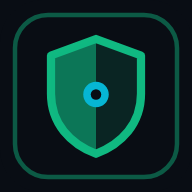
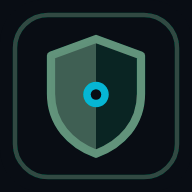
1.0.9 giro 1: servizio Linux parte anche se il registro non è scrivibile, icone in salvia, contrasto hover tema chiaro, Abilita nascosto se le notifiche non esistono, registro allineato a --dati; revisione config: CI con permessi minimi e azioni fissate, impronta del modello, fastapi 0.129.2/starlet

Changed region(s): [[0.2188, 0.1875, 0.7812, 0.8438], [0.0625, 0.0625, 0.9375, 0.9375]]

diff --git a/frontend/src/components/AlertRules.jsx b/frontend/src/components/AlertRules.jsx
@@ -82,7 +82,7 @@ export default function AlertRules({ settings, onSave }) {
           <Switch data-testid="desktop-notify-toggle" className="ml-auto" checked={draft.desktop_notifications} onCheckedChange={(v) => setDraft({ ...draft, desktop_notifications: v })} /></label>
         <div className="flex items-center gap-2 text-xs text-gray-400">
           Permesso: <span data-testid="notify-permission-status" className="font-mono text-gray-200">{!secure ? "non disponibile su http" : perm === "granted" ? "concesso" : perm === "denied" ? "negato" : perm === "unsupported" ? "non supportato" : "da richiedere"}</span>
-          {perm !== "granted" && secure && <Button data-testid="notify-permission-button" size="sm" variant="outline" className="ml-auto h-7 border-white/10 bg-transparent text-xs" onClick={async () => setPerm(await askNotifyPermission())}>Abilita</Button>}
+          {perm !== "granted" && perm !== "unsupported" && secure && <Button data-testid="notify-permission-button" size="sm" variant="outline" className="ml-auto h-7 border-white/10 bg-transparent text-xs" onClick={async () => setPerm(await askNotifyPermission())}>Abilita</Button>}
         </div>
       </div>
       {!secure && (

diff --git a/frontend/public/sw.js b/frontend/public/sw.js
@@ -1,6 +1,6 @@
 /* Service worker di SentinelAI: rende l'app installabile e la apre anche se il server riparte.
    Le chiamate /api (video, eventi, clip) passano SEMPRE dalla rete: niente dati vecchi in cache. */
-const CACHE = "sentinelai-v1";
+const CACHE = "sentinelai-v2";
 const SHELL = ["/", "/manifest.json", "/icon-192.png", "/icon-512.png", "/favicon.svg"];
 
 self.addEventListener("install", (e) => {
@@ -19,8 +19,7 @@ self.addEventListener("fetch", (e) => {
   if (e.request.mode === "navigate") {
     // Pagina: prima la rete (versione aggiornata), se il server non risponde la copia salvata.
     e.respondWith(fetch(e.request).then((r) => {
-      const copy = r.clone();
-      caches.open(CACHE).then((c) => c.put("/", copy));
+      if (r.ok) { const copy = r.clone(); caches.open(CACHE).then((c) => c.put("/", copy)); }   // mai salvare una pagina di errore
       return r;
     }).catch(() => caches.match("/")));
     return;

diff --git a/frontend/src/App.css b/frontend/src/App.css
@@ -71,3 +71,7 @@
 
 /* Schede in alto (06/11/2026): la scheda attiva è una "pastiglia" verde. */
 .nav-tab-on { background: rgb(var(--em400) / 0.09); box-shadow: inset 0 0 0 1px rgb(var(--em400) / 0.22); }
+
+/* 1.0.9 (agente di prova): nel tema chiaro il verde salvia del passaggio del mouse era troppo scuro per il testo
+   scuro dei tasti (contrasto 3,6): qui un salvia più chiaro (contrasto ~7). */
+:root:not(.dark) .hover\:bg-emerald-400:hover { background-color: rgb(125 172 146); }

diff --git a/linux/sentinel_server.py b/linux/sentinel_server.py
@@ -97,8 +97,15 @@ def main():
     os.environ["SENTINEL_LOG"] = str(data / "sentinelai.log")
     # 1.0.9: su Linux tutto andava solo nel journal e Impostazioni -> "Copia registro" diceva "non disponibile".
     # Ora ogni riga va sia nel journal (come prima) sia nel file del registro, che ruota a 5 MB come su Windows.
-    rlog = d.RotatingLog(data / "sentinelai.log")
-    sys.stdout, sys.stderr = Tee(sys.stdout, rlog), Tee(sys.stderr, rlog)
+    # make_app usa d.LOG per SENTINEL_LOG: deve essere lo stesso file del Tee anche se --dati non si chiama SentinelAI
+    d.LOG = data / "sentinelai.log"
+    try:
+        rlog = d.RotatingLog(d.LOG)
+    except OSError as exc:   # agente di prova 1.0.9: file non scrivibile = il servizio non partiva più
+        rlog = None
+        print(f"registro su file non disponibile ({exc}): resta solo il journal", file=sys.stderr, flush=True)
+    if rlog is not None:
+        sys.stdout, sys.stderr = Tee(sys.stdout, rlog), Tee(sys.stderr, rlog)
 
     rete = password_ok(data)
     host = "0.0.0.0" if rete else "127.0.0.1"
@@ -109,7 +116,7 @@ def main():
     import logging
     for lg in [logging.getLogger()] + [logging.getLogger(n) for n in list(logging.root.manager.loggerDict)]:
         for h in getattr(lg, "handlers", []):
-            if isinstance(h, logging.StreamHandler) and getattr(h, "stream", None) in (sys.stdout.a, sys.stderr.a):
+            if isinstance(sys.stderr, Tee) and isinstance(h, logging.StreamHandler) and getattr(h, "stream", None) in (sys.stdout.a, sys.stderr.a):
                 h.setStream(sys.stderr)
     d.log(f"avvio SentinelAI {d.VERSION} su {host}:{a.porta}, dati in {data}, nomi ammessi: {', '.join(lan_ipv4())}")
     import uvicorn

diff --git a/backend/server.py b/backend/server.py
@@ -410,7 +410,7 @@ async def event_snapshot(event_id: str):
     doc = await db.snapshots.find_one({"event_id": event_id}, {"_id": 0, "data": 1})
     if not doc:
         raise HTTPException(404, "Screenshot non trovato")
-    return Response(bytes(doc["data"]), media_type="image/jpeg", headers={"Cache-Control": "private, max-age=86400"})
+    return Response(bytes(doc["data"]), media_type="image/jpeg", headers={"Cache-Control": "private, no-store"})
 
 
 @api.delete("/events")
@@ -513,7 +513,7 @@ async def clip_video(clip_id: str, request: Request, download: bool = False):
             raise HTTPException(404, "Il file del video non c'è più (cartella spostata, scollegata o file cancellato)")
     else:
         data = bytes(doc["data"])
-    headers = {"Accept-Ranges": "bytes", "Cache-Control": "private, max-age=86400"}
+    headers = {"Accept-Ranges": "bytes", "Cache-Control": "private, no-store"}
     if download:
         stamp = datetime.fromisoformat(doc["timestamp"]).strftime("%Y%m%d_%H%M%S")
         headers["Content-Disposition"] = f'attachment; filename="clip_{stamp}.mp4"'
